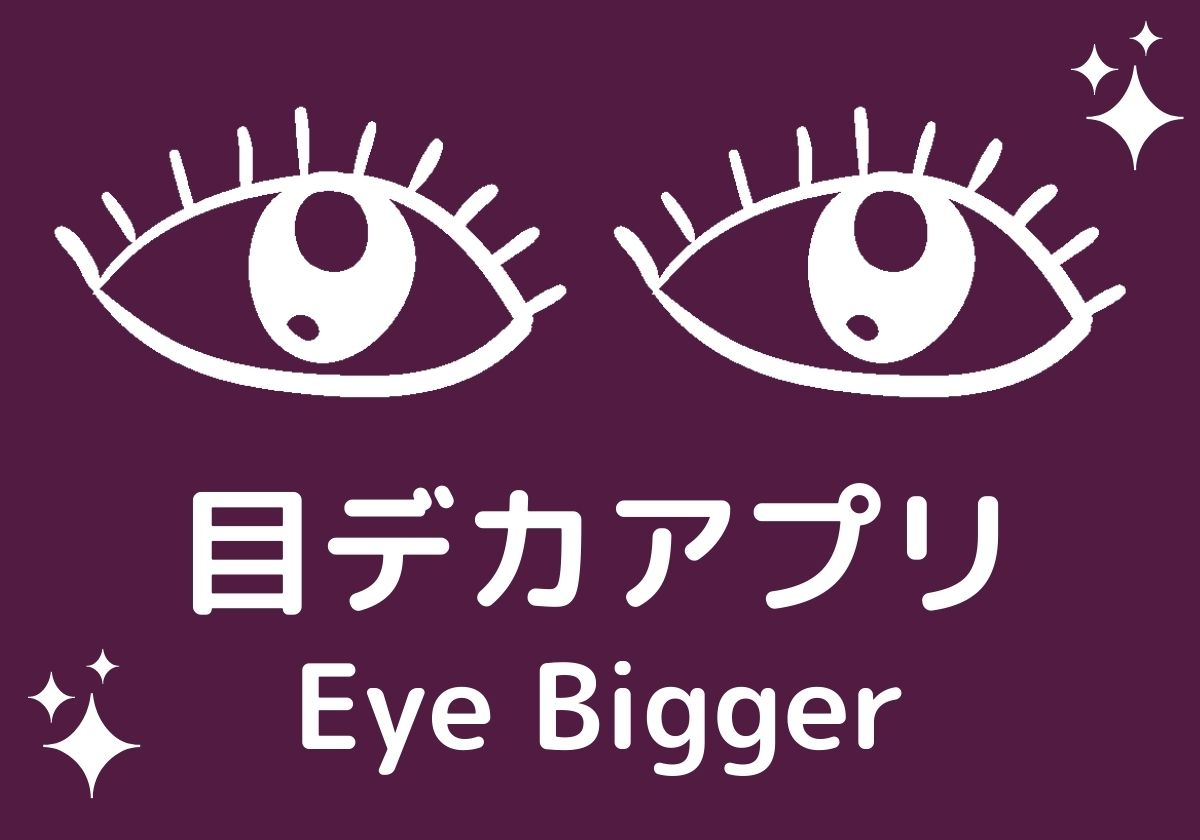
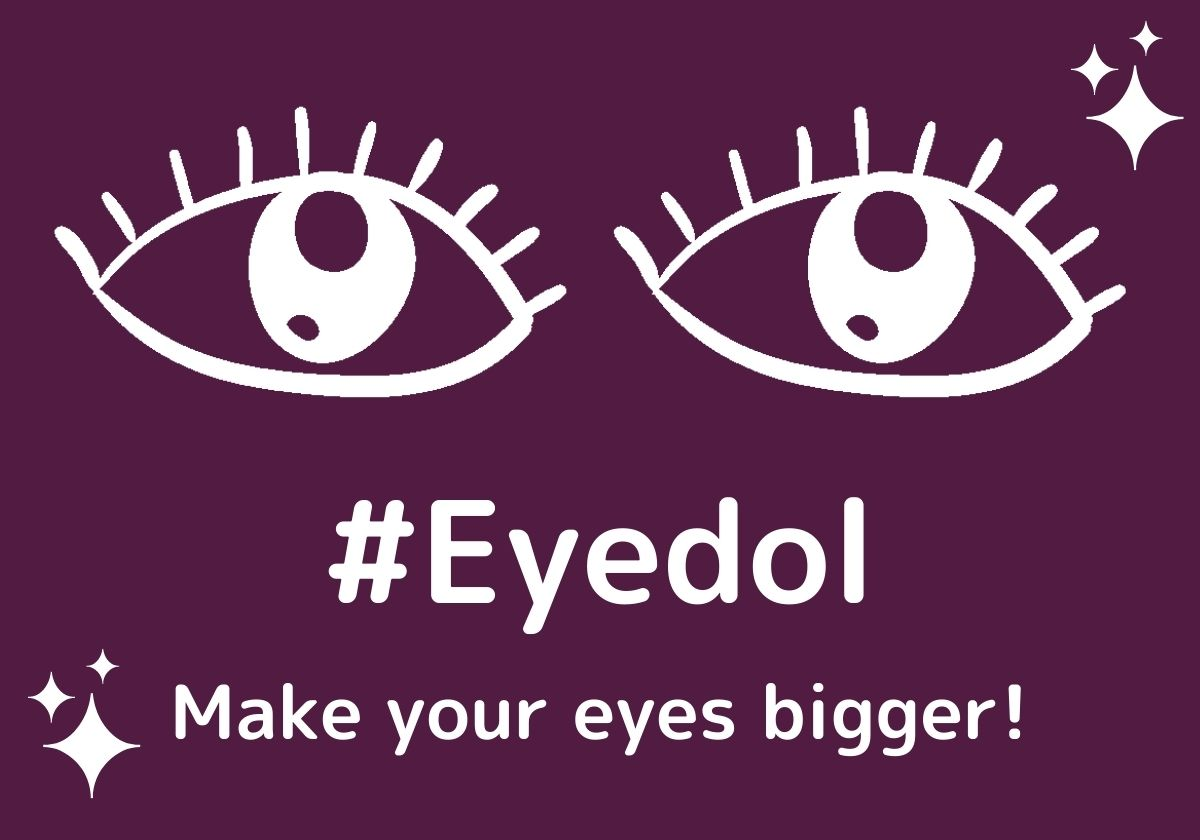
chore: change ogp image

Changed region(s): [[0.1233, 0.5571, 0.8633, 0.9286], [0.7708, 0.5881, 0.8325, 0.7429]]

diff --git a/locales/en.ts b/locales/en.ts
@@ -1,5 +1,5 @@
 export const EnTexts = {
-  title: "Eye Bigger",
+  title: "Eyedol",
   subTitle: "Make your eyes bigger!",
   description: "Say good-bye to you, who has small eyes!",
   description2: "Get a new life with big eyes.",
@@ -24,5 +24,5 @@ export const EnTexts = {
   changeImageFirst: "Please convert your photo first.",
   sample: "Examples",
   sampleDesc: "Your eyes will be bigger as follows..",
-  try: "Try Eye Bigger",
+  try: "Make your eyes bigger",
 };

diff --git a/locales/ja.ts b/locales/ja.ts
@@ -1,6 +1,6 @@
 export const JaTexts = {
   title: "Eyeドル",
-  subTitle: "目を簡単に大きくしよう！",
+  subTitle: "目を大きくしてEyeドルになろう",
   description: "もう小さい目に悩まされる人生は終わりだ！",
   description2: "目が大きい新しい人生を",
   start: "早速始める",
